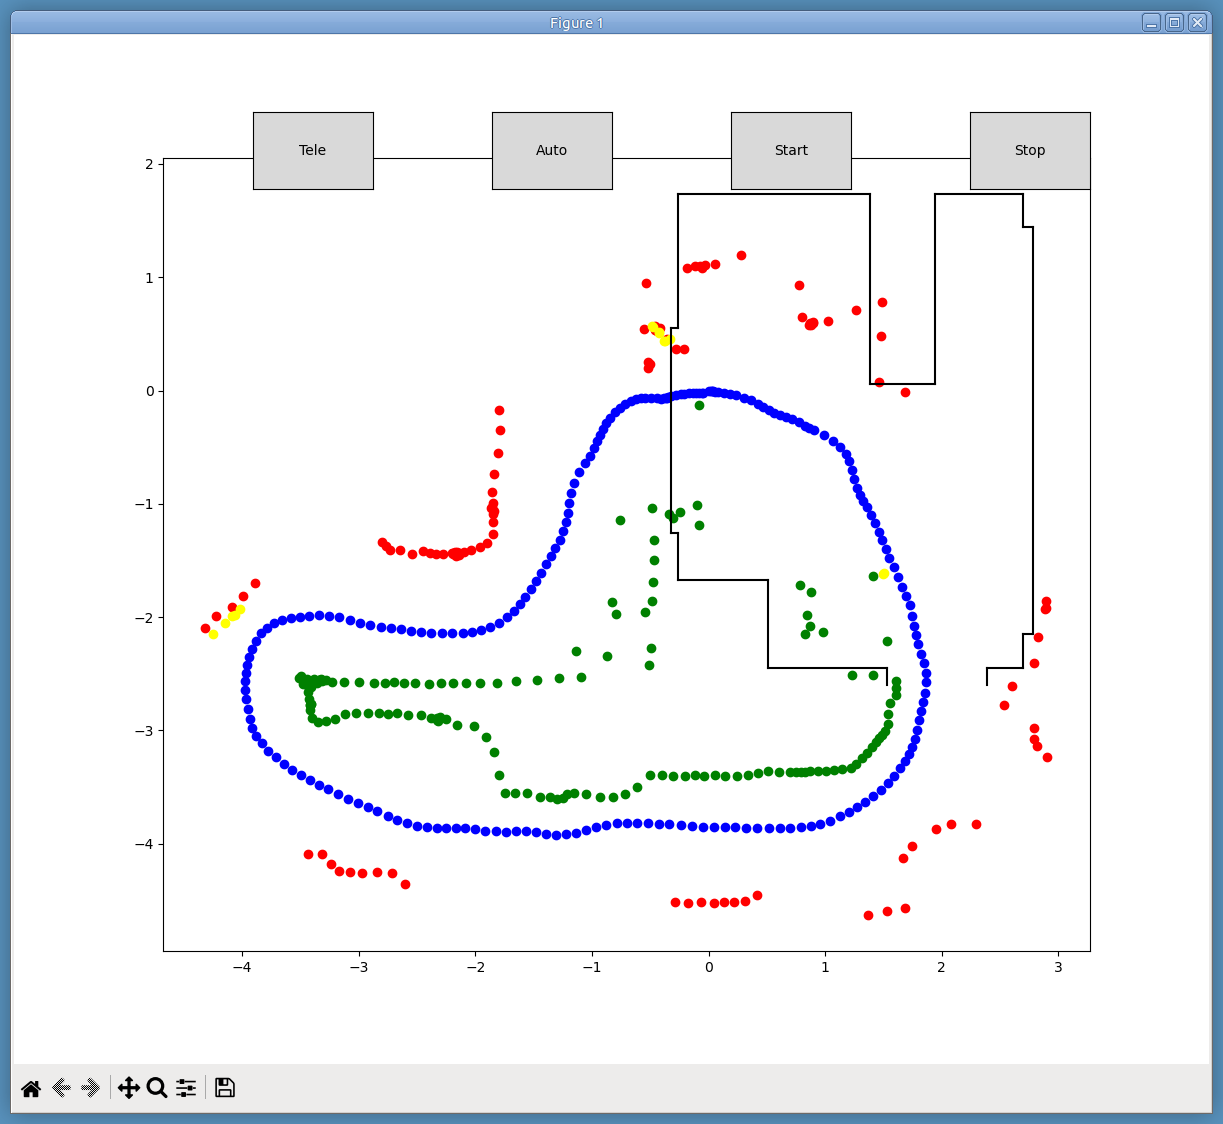
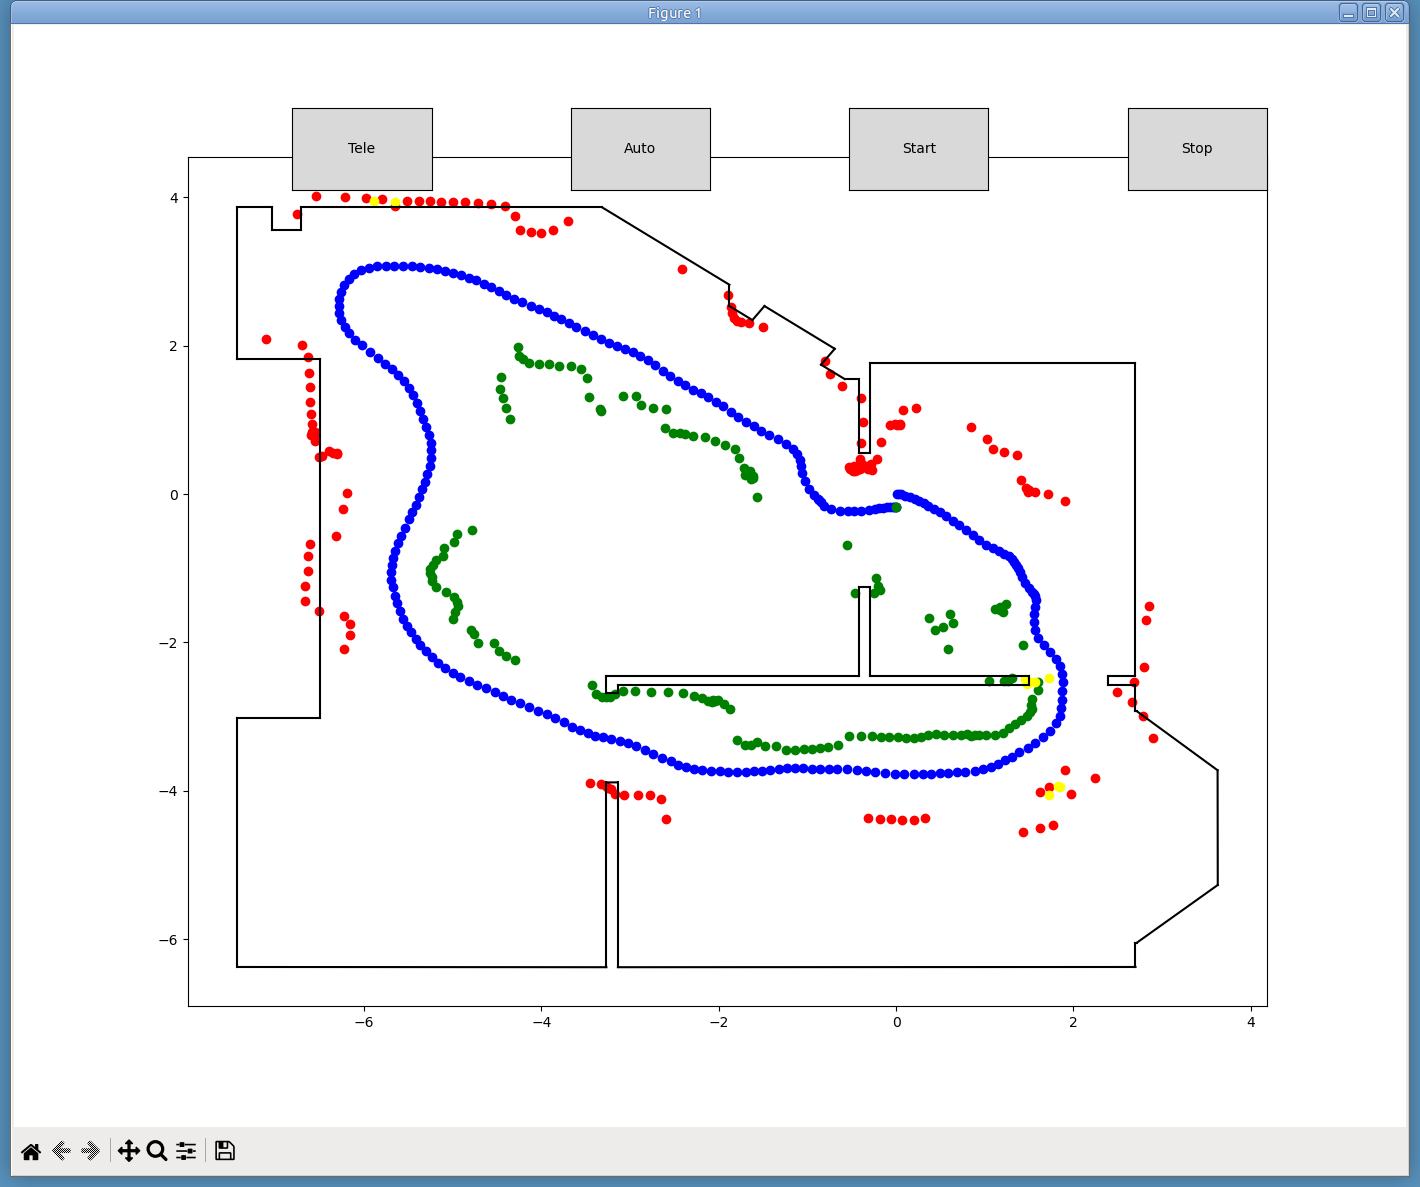
Added utility for generating arena boundary lines, enlarged arena.

diff --git a/robot/arena.py b/robot/arena.py
@@ -2,25 +2,51 @@
 """Represent the lines bounding arena (dimensions in m)"""
 
 boundary_lines = [
-    [(-0.265, 1.73), (-0.265, 0.555)],
-    [(-0.265, 0.555), (-0.325, 0.555)],
-    [(-0.325, 0.555), (-0.325, -1.26)],
-    [(-0.325, -1.26), (-0.265, -1.26)],
-    [(-0.265, -1.26), (-0.265, -1.67)],
-    [(-0.265, -1.67), (0.51, -1.67)],
-    [(0.51, -1.67), (0.51, -2.445)],
-    [(0.51, -2.445), (1.53, -2.445)],
-    [(1.53, -2.445), (1.53, -2.6)],
-    [(2.39, -2.6), (2.39, -2.445)],
-    [(2.39, -2.445), (2.695, -2.445)],
-    [(2.695, -2.445), (2.695, -2.146)],
-    [(2.695, -2.146), (2.785, -2.146)],
-    [(2.785, -2.146), (2.785, 1.445)],
-    [(2.785, 1.445), (2.695, 1.445)],
-    [(2.695, 1.445), (2.695, 1.73)],
-    [(2.695, 1.73), (1.945, 1.73)],
-    [(1.945, 1.73), (1.945, 0.055)],
-    [(1.945, 0.055), (1.385, 0.055)],
-    [(1.385, 0.055), (1.385, 1.73)],
-    [(1.385, 1.73), (-0.265, 1.73)]
-    ]
+ [(-0.29, 1.76), (-0.29, 0.56)],
+ [(-0.29, 0.56), (-0.42, 0.56)],
+ [(-0.42, 0.56), (-0.42, 1.55)],
+ [(-0.42, 1.55), (-0.58, 1.55)],
+ [(-0.58, 1.55), (-0.847, 1.744)],
+ [(-0.847, 1.744), (-0.692, 1.958)],
+ [(-0.692, 1.958), (-1.485, 2.534)],
+ [(-1.485, 2.534), (-1.621, 2.345)],
+ [(-1.621, 2.345), (-1.88, 2.534)],
+ [(-1.88, 2.534), (-1.88, 2.821)],
+ [(-1.88, 2.821), (-3.316, 3.864)],
+ [(-3.316, 3.864), (-6.713, 3.864)],
+ [(-6.713, 3.864), (-6.713, 3.554)],
+ [(-6.713, 3.554), (-7.043, 3.554)],
+ [(-7.043, 3.554), (-7.043, 3.864)],
+ [(-7.043, 3.864), (-7.434, 3.864)],
+ [(-7.434, 3.864), (-7.434, 1.824)],
+ [(-7.434, 1.824), (-6.503, 1.824)],
+ [(-6.503, 1.824), (-6.503, -3.014)],
+ [(-6.503, -3.014), (-7.434, -3.014)],
+ [(-7.434, -3.014), (-7.434, -6.373)],
+ [(-7.434, -6.373), (-3.268, -6.376)],
+ [(-3.268, -6.376), (-3.268, -3.886)],
+ [(-3.268, -3.886), (-3.138, -3.885)],
+ [(-3.138, -3.885), (-3.138, -6.376)],
+ [(-3.138, -6.376), (2.7, -6.373)],
+ [(2.7, -6.373), (2.7, -6.046)],
+ [(2.7, -6.046), (2.715, -6.046)],
+ [(2.715, -6.046), (3.628, -5.268)],
+ [(3.628, -5.268), (3.626, -3.722)],
+ [(3.626, -3.722), (2.715, -2.926)],
+ [(2.715, -2.926), (2.7, -2.926)],
+ [(2.7, -2.926), (2.7, -2.576)],
+ [(2.7, -2.576), (2.39, -2.576)],
+ [(2.39, -2.576), (2.39, -2.446)],
+ [(2.39, -2.446), (2.7, -2.446)],
+ [(2.7, -2.446), (2.7, 1.76)],
+ [(2.7, 1.76), (-0.29, 1.76)],
+ [(1.5, -2.446), (-0.29, -2.446)],
+ [(-0.29, -2.446), (-0.29, -1.246)],
+ [(-0.29, -1.246), (-0.42, -1.246)],
+ [(-0.42, -1.246), (-0.42, -2.446)],
+ [(-0.42, -2.446), (-3.268, -2.446)],
+ [(-3.268, -2.446), (-3.268, -2.676)],
+ [(-3.268, -2.676), (-3.138, -2.676)],
+ [(-3.138, -2.676), (-3.138, -2.576)],
+ [(-3.138, -2.576), (1.5, -2.576)],
+ [(1.5, -2.576), (1.5, -2.446)]]

diff --git a/arena/process_points.py b/arena/process_points.py
@@ -1,0 +1,43 @@
+"""Calculate "boundary_lines" of the arena walls."""
+
+from pprint import pprint
+
+ext_pnts_file = "ext_pnts.dat"
+int_pnts_file = "int_pnts.dat"
+
+line_list = []
+
+def generate_line_list(pnt_list):
+    """Convert a list of points into a list of lines."""
+    first_pnt = pnt_list[0]
+    line_list = []
+    for i in range(len(pnt_list)):
+        try:
+            line_list.append([pnt_list[i], pnt_list[i+1]])
+        except IndexError:
+            line_list.append([pnt_list[i], first_pnt])
+    return line_list
+
+
+if __name__ == "__main__":
+    """The arena is presumed to be bounded by a fully enclosed exterior
+    perimeter wall and a separate loop representing an interior wall.
+    Each wall is defined by a series of points (x, y), one at each corner.
+    "boundary_lines" go from corner to corner."""
+
+    for file in [ext_pnts_file, int_pnts_file]:
+        pnt_list= []
+
+        # Each line of the data file contains x_val, y_val
+        with open(file) as f:
+            for line in f.readlines():
+                x, y = line.split(',')
+                pnt_list.append((float(x), float(y)))
+            print(f"Processed {len(pnt_list)} points in {file}")
+
+        # Convert pnt_list to line_list and extend
+        line_list.extend(generate_line_list(pnt_list))
+          
+
+print("Number of lines in line_list: ", len(line_list))
+pprint(line_list)

diff --git a/readme.md b/readme.md
@@ -68,7 +68,12 @@ replace the wheel odometry system I have been using, which relies on using motor
     
 ![Run #2](imgs/arena_map2.png)
 
-My *Arena* is actually a room where my desk is located, and which has 2 doorways. This next map shows the path of the PicoBot starting at its home position, then driving across the room, out one of the doorways, through some adjacent rooms and back again to its starting point. The path of the PicoBot (Blue dots) shows an almost indistinguishable offset between the starting and ending points. This optical tracking odometer is really quite a remarkable device. There's no way my old wheel odometry system was this good.
+My *Arena* is actually a room where my desk is located, and which has 2 doorways. This next map shows the path of the PicoBot starting at its home position, then driving across the room, out one of the doorways, through some adjacent rooms and back again to its starting point. The path of the PicoBot (Blue dots) shows its path from start at to finish.
+
+* Start pose: [0.01068115, 0.0, -0.05809947]
+* Finish pose: [0.0009155273, -0.1760864, -0.03528153]
+
+This optical tracking odometer is really quite a remarkable device. There's no way my old wheel odometry system was this good.
 
 ![Loop_run](imgs/loop_map.png)
 
